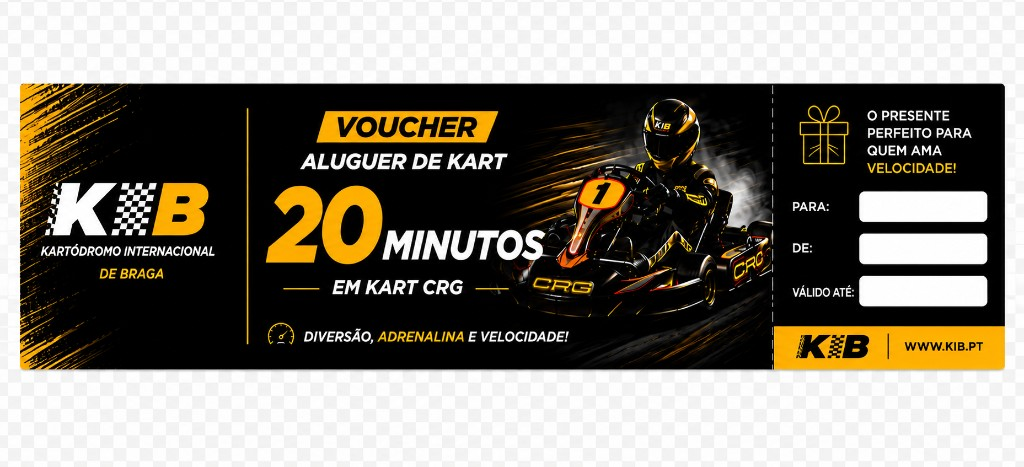
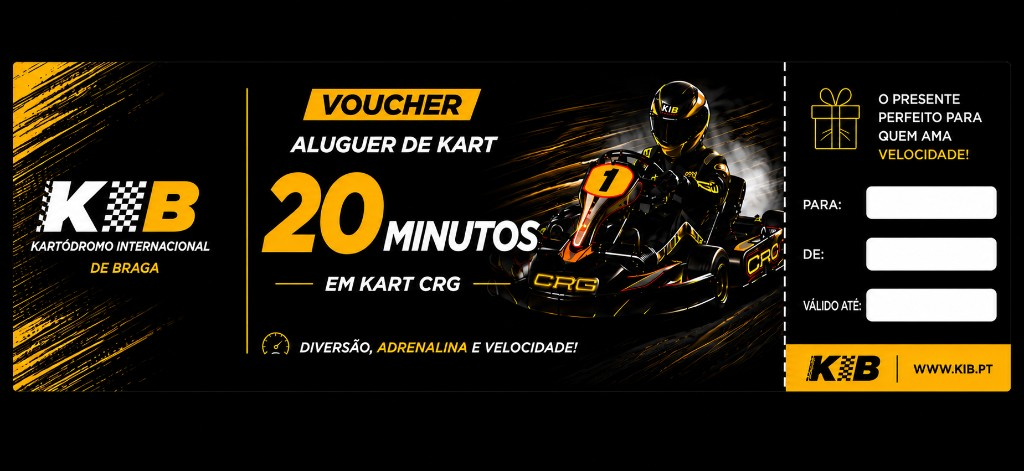
Atualização do site

diff --git a/src/components/Hours.tsx b/src/components/Hours.tsx
@@ -7,6 +7,19 @@ import { Card } from "@/components/ui/SectionTitle";
 import { useContent } from "@/i18n/useContent";
 import { useTranslations } from "@/i18n/LanguageProvider";
 import type { ScheduleTab } from "@/i18n/types";
+import {
+  HOURS_TAB_STORAGE_KEY,
+  isSummerHoursPeriod,
+} from "@/lib/hours";
+
+function readStoredHoursTab(): ScheduleTab | null {
+  const preset = sessionStorage.getItem(HOURS_TAB_STORAGE_KEY);
+  if (preset === "verao" || preset === "aluguer" || preset === "eventos") {
+    sessionStorage.removeItem(HOURS_TAB_STORAGE_KEY);
+    return preset;
+  }
+  return null;
+}
 
 export function Hours() {
   const [activeTab, setActiveTab] = useState<ScheduleTab>("aluguer");
@@ -14,6 +27,28 @@ export function Hours() {
   const { scheduleTabs, scheduleContent, scheduleClosedDays } = useContent();
   const t = useTranslations();
   const content = scheduleContent[activeTab];
+
+  useEffect(() => {
+    const applyTabFromNavigation = () => {
+      const stored = readStoredHoursTab();
+      if (stored) {
+        setActiveTab(stored);
+        return;
+      }
+
+      if (window.location.hash === "#horarios" && isSummerHoursPeriod()) {
+        setActiveTab("verao");
+      }
+    };
+
+    applyTabFromNavigation();
+    window.addEventListener("hashchange", applyTabFromNavigation);
+    window.addEventListener("kib-hours-preset", applyTabFromNavigation);
+    return () => {
+      window.removeEventListener("hashchange", applyTabFromNavigation);
+      window.removeEventListener("kib-hours-preset", applyTabFromNavigation);
+    };
+  }, []);
 
   useEffect(() => {
     setShowExceptions(false);

diff --git a/src/components/Hero.tsx b/src/components/Hero.tsx
@@ -4,9 +4,14 @@ import Image from "next/image";
 import { ChevronRight, Gauge, FileText, Clock, Phone, Gift } from "lucide-react";
 import { Button } from "@/components/ui/Button";
 import { useTranslations } from "@/i18n/LanguageProvider";
+import { getPreferredHoursTab, presetHoursTab } from "@/lib/hours";
 
 export function Hero() {
   const t = useTranslations();
+
+  const handleHoursClick = () => {
+    presetHoursTab(getPreferredHoursTab());
+  };
 
   return (
     <section
@@ -60,7 +65,7 @@ export function Hero() {
               <FileText className="h-4 w-4" />
               {t.hero.quote}
             </Button>
-            <Button href="/#horarios" variant="primary">
+            <Button href="/#horarios" variant="primary" onClick={handleHoursClick}>
               <Clock className="h-4 w-4" />
               {t.hero.hours}
             </Button>

diff --git a/src/lib/hours.ts b/src/lib/hours.ts
@@ -1,0 +1,19 @@
+import type { ScheduleTab } from "@/i18n/types";
+
+/** Verão: 24 de julho – 23 de agosto */
+export function isSummerHoursPeriod(date = new Date()): boolean {
+  const month = date.getMonth();
+  const day = date.getDate();
+  return (month === 6 && day >= 24) || (month === 7 && day <= 23);
+}
+
+export function getPreferredHoursTab(date = new Date()): ScheduleTab {
+  return isSummerHoursPeriod(date) ? "verao" : "aluguer";
+}
+
+export const HOURS_TAB_STORAGE_KEY = "kib-hours-tab";
+
+export function presetHoursTab(tab: ScheduleTab) {
+  sessionStorage.setItem(HOURS_TAB_STORAGE_KEY, tab);
+  window.dispatchEvent(new CustomEvent("kib-hours-preset"));
+}

diff --git a/src/components/VouchersSection.tsx b/src/components/VouchersSection.tsx
@@ -66,7 +66,7 @@ export function VouchersSection() {
               key={item.title}
               className="overflow-hidden rounded-2xl border border-white/10 bg-kib-card shadow-xl shadow-black/30"
             >
-              <div className="relative aspect-[16/10] w-full bg-transparent">
+              <div className="relative aspect-[16/10] w-full bg-kib-black">
                 <Image
                   src={voucherImages[index]}
                   alt={item.alt}
